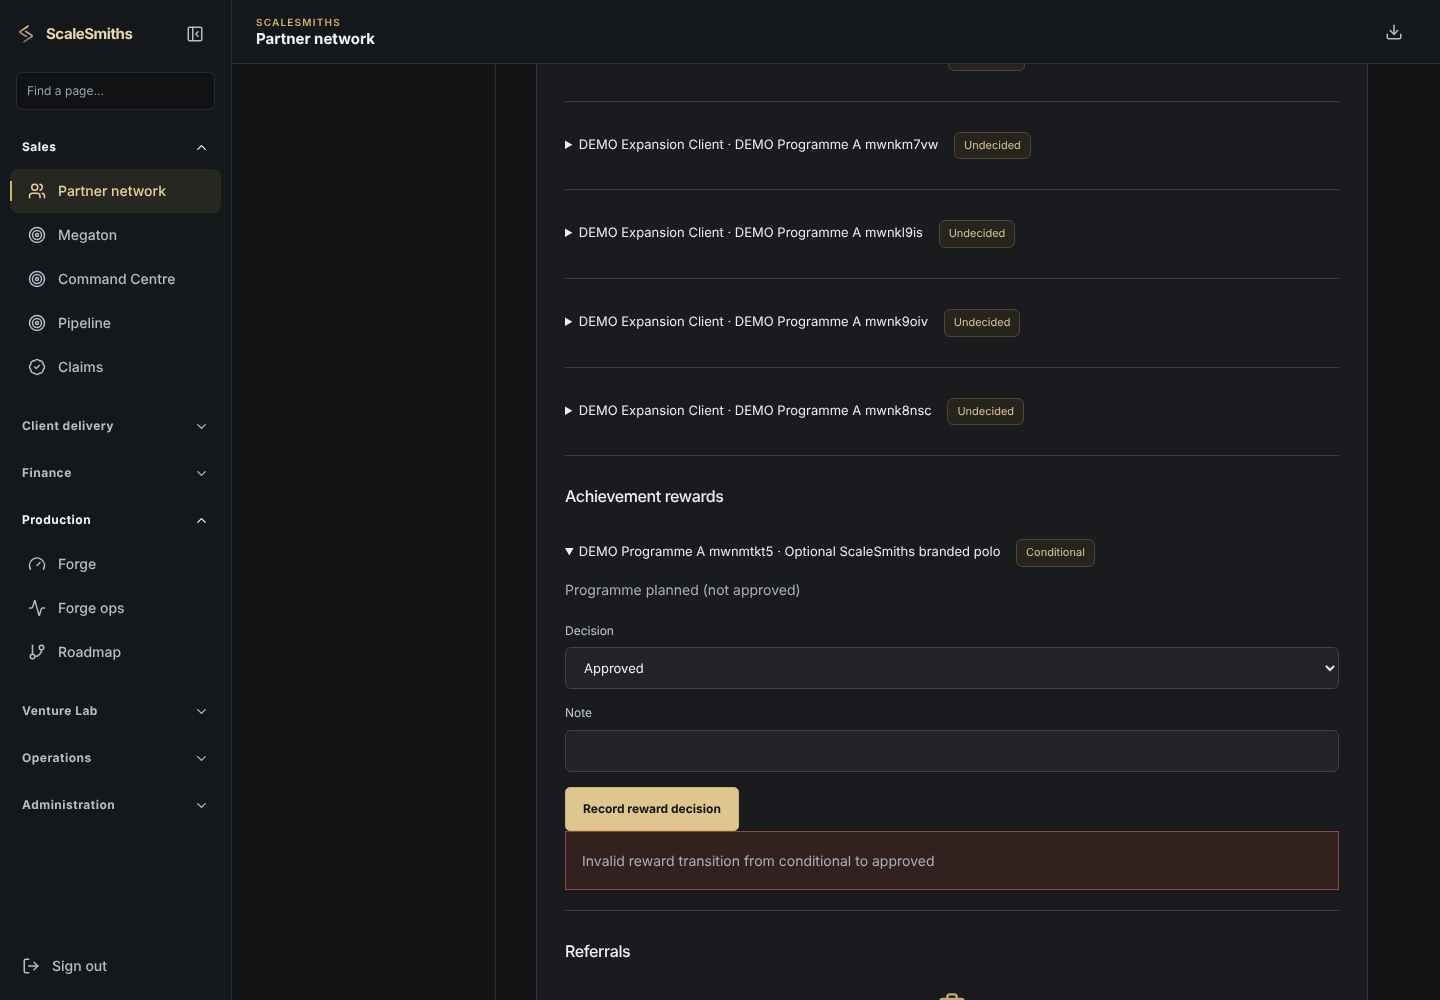
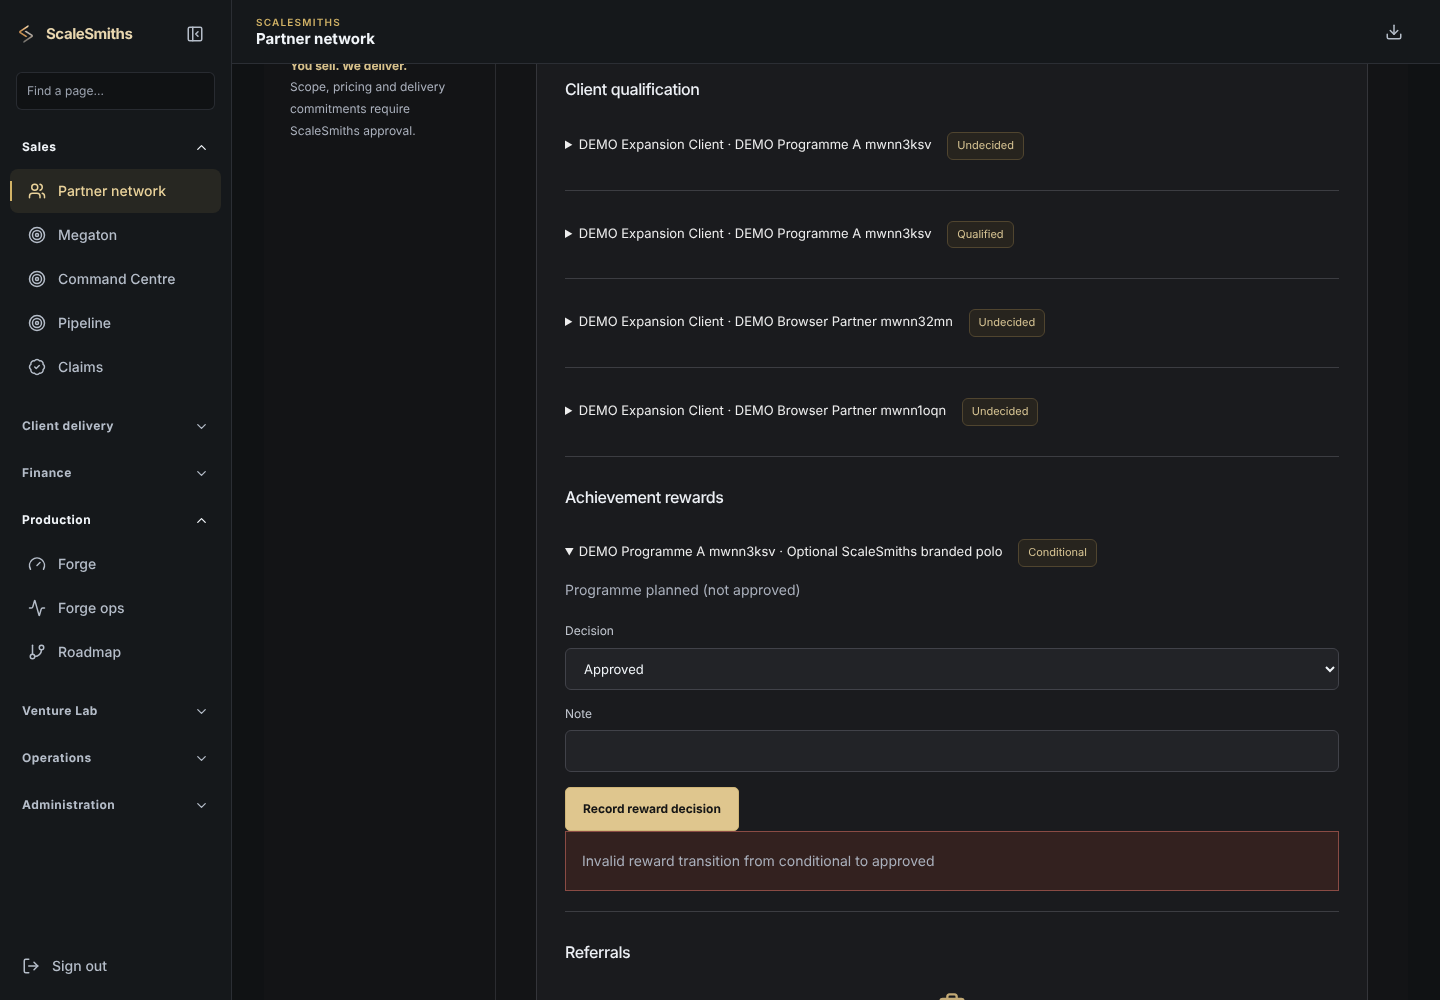
docs(partners): checkpoint 4 models, matrix updates and draft PR description
Claude-Session: https://claude.ai/code/session_01JiUvJZZ1RqT7GrTNG2bYja

diff --git a/docs/expansion/intelligence/PR-DESCRIPTION.md b/docs/expansion/intelligence/PR-DESCRIPTION.md
@@ -1,0 +1,27 @@
+# Draft PR: Operation Intelligence B0 (Scale Your Future programme foundation)
+
+**Status: DRAFT. Not opened, not merged, not deployed.** Base: master `4c399b8` (Expansion Hardening, PR #154). Branch `claude/modest-newton-jo2d95`. Intake and partner activation stay closed; every commercial reward, withdrawal and market is disabled or approval-gated by default.
+
+## What this contains
+- **B0.1 Public site:** Become a Partner header CTA, footer and Partner Login (existing admin origin), rebuilt `/partners` (twelve-month terms, calculator, honest availability labels, disclosures).
+- **B0.2 Commercial integration:** `standard-v2`, `growth-only-v1`, `bespoke-v1` plans with immutable commitment snapshots, interim milestone, pooled rounding, discount allowances (none by default), additional-customer claims, withdrawal requests over the existing ledger, fail-closed market and exclusivity gates (also for legacy `standard-v1` acceptance), canonical sector classification.
+- **B0.3 Programme:** achievements and referrals (conditional, never payable), onboarding toolkit tracking, founder meeting requests.
+- **Integrity:** one documented lock hierarchy (a real refund-vs-collection deadlock was reproduced and fixed), database-enforced withdrawal transitions, immutable exclusivity history with supersession.
+
+## Migrations (forward-only, 0073 to 0081)
+0073 plans · 0074 allowances and claims · 0075 withdrawals · 0076 market/exclusivity · 0077 gate hardening · 0078 state integrity · 0079 achievements/referrals · 0080 sector taxonomy · 0081 toolkit/meetings. Upgrade from the Expansion Hardening state was verified with historical rows preserved. No migration deletes or rewrites existing data.
+
+## Financial changes
+Standard commission stays £705. New plans round once on the cumulative build total. Withdrawals reserve existing ledger entries and create ordinary payouts; nothing moves money. Achievement, referral and withdrawal activation are off until an approved programme/policy exists.
+
+## Security
+Partner isolation and founder-only actions verified in service tests, real PostgreSQL and a production-build browser run. The full concurrency suite passes **as the restricted admin runtime role**; the web role was denied on every private table; admin DELETE/DDL/TRUNCATE/trigger-disable were denied. Two independent model reviews (not human audits) found no critical issues; all high/medium findings were remediated.
+
+## Verification (see CHECKPOINT-4-REPORT.md for exact commands and counts)
+Admin unit/service tests, web tests, 135 PostgreSQL integration tests, production builds, committed public browser tests, authenticated programme journey (run twice), original Expansion journey, 21 repository gates, privilege harness via a native-PostgreSQL shim.
+
+## Known gaps and approvals
+Not built: researched prospect allocation, Founding Partner recognition, personal profiles, applicant/activation/allocation/scope-approval market gating, Phase C. Unverified here: GitHub CI, the unchanged IPv6 `safe-outbound` test (environment lacks `::1`), the privilege harness with real Docker, the full web Playwright suite. Needs founder/legal/accounting decisions listed in FOUNDER-DECISIONS.md before any activation.
+
+## Deployment prerequisites and rollback
+Deploy only after protected-area review, legal/accounting/privacy approval and production recovery verification. Migrations are additive; rollback is by restoring the pre-migration backup (the new tables are unreferenced by older code). Enable plans, withdrawal policy, markets and programme versions only through the founder UI after approval. **Master branch protection is still not enforced** (governance concern, unchanged).

diff --git a/docs/expansion/intelligence/ACHIEVEMENT-AND-REFERRAL-MODEL.md b/docs/expansion/intelligence/ACHIEVEMENT-AND-REFERRAL-MODEL.md
@@ -1,0 +1,22 @@
+# Achievements and referrals (checkpoint 4B)
+
+**Nothing here creates a payable liability.** There is deliberately no ledger or payout integration for rewards. A reward is a record with a status; moving a bonus to approved is refused by the database unless an approved programme version explicitly enables financial rewards.
+
+## Qualification
+- A *qualifying client* is a **founder decision** (`expansion_client_qualifications`) on a real accepted contract of that partner with verified net collections. Progress is `count(status='qualified')`, never an editable number.
+- Refused: cancelled contract, no verified collections, outstanding refund review, below an approved programme minimum, or a canonical client already counted (for any partner). A DB trigger requires the contract and client to belong to the partner. Decisions are immutable; a wrong one is revoked (reason required) and decided again.
+- Unresolved policy (founder decisions): minimum payment, duration, refund/cancellation effect, additional-customer and common-ownership treatment. Defaults are conservative: manual review, one count per canonical client.
+
+## Programmes and rewards
+- `expansion_achievement_programmes` versions the schedule (seeded from the proposed table: polo 1, webpage 5, then £250 / £750 / £2,000 / £5,000 / £15,000 / £30,000 at 10 / 25 / 50 / 100 / 250 / 500). Approved versions and their milestones are immutable. Financial and referral rewards are separate flags, default off, and require approval.
+- Reaching a threshold creates a **conditional** reward (unique per partner and milestone). Statuses: conditional → under_review → approved → fulfilment_pending → fulfilled (or rejected). A reward created before any programme exists may adopt an approved programme once, only if it defines the same milestone, kind and amount.
+- Revoking a qualification withdraws unapproved rewards whose threshold is no longer met; approved ones stay and are flagged for review.
+- Cumulative planned bonuses (£8,000 / £23,000 / £53,000 at 100 / 250 / 500) are shown as an illustration only.
+
+## Referrals
+- One unique code per partner (`SS-` + 8 base32 characters). A founder records the attribution on an **open** application before activation; it is immutable and cannot be reassigned. Self-referral (same application or email) and attribution after activation are refused by trigger. The applicant is vetted exactly as any other; nothing is automatic.
+- When the referred partner reaches five qualifying clients, a conditional £250 reward appears (unique per referral); it is withdrawn if the count falls. Approval needs a programme with referral rewards enabled.
+- The referrer sees a coarse stage and a count only: no names, customers, finances or notes. No downline, no recurring commission.
+
+## Evidence
+10 service tests, 5 real-PostgreSQL race tests (same-client double decision, concurrent qualifications, revoke versus reward decision, referral attribution race, commission ledger unchanged), and a browser journey.

diff --git a/docs/expansion/intelligence/COMMERCIAL-ACCEPTANCE-MATRIX.md b/docs/expansion/intelligence/COMMERCIAL-ACCEPTANCE-MATRIX.md
@@ -13,10 +13,10 @@
 | G bespoke £25,000 | PASS, persisted | £0 at acceptance; £3,000, then £1,500, then £3,000 per collection, reaching £7,500 only after all three |
 | H additional customer sale | PASS, persisted (3A) and browser | claim → approval → new accepted terms → allocated invoice → £3,000 commission; old invoice unclaimable; no client duplicated; historical contract ledger unchanged |
 | I withdrawal | PASS: 31 service tests, 11 real-PostgreSQL races, browser | request/replay/reject/cancel/approve/prepare/settle; over-withdrawal and double allocation impossible; refund dispute gate; no transfer |
-| J achievement | NOT STARTED | |
-| K referral | NOT STARTED | |
-| L exclusivity | PASS at acceptance (plan path): service, real-PostgreSQL race, browser | restricted/review/exception/cleared/ended; customer identity not disclosed |
-| M international eligibility | PARTIAL: acceptance gate PASS (unknown, unapproved, suspended, wrong-plan, approved; race; browser). Applicant/activation gating NOT implemented | |
+| J achievement | PASS (service, real PostgreSQL, browser) | derived progress, conditional rewards, no automatic liability, duplicates and bypasses refused in the database, ledger unchanged |
+| K referral | PASS (service, real PostgreSQL, browser) | code, attribution, vetting unchanged, five-client conditional £250, no payable liability, no recurring commission, privacy-limited view |
+| L exclusivity | PASS at acceptance (plan and legacy paths) and structured classification: service, race, browser. NOT enforced at registration or allocation (allocation not built) | classified/unclassified, review, exception, supersession, confidentiality |
+| M international eligibility | PARTIAL: acceptance gate PASS for plan and legacy paths (unknown, unconfirmed, unapproved, suspended, wrong-plan, approved; grandfathering; race; browser). Applicant, activation, allocation and scope-approval gating NOT implemented | |
 | N discount concurrency | PASS, real PostgreSQL | three race tests |
 | O refund/payout regression | PASS | existing hardening suite plus new pooled £200 partial refund = −£60 held for review |
 | P four £500 instalments | PASS, persisted and real-PostgreSQL concurrent | £150 × 4 + £105 = £705; concurrent interim collections serialise; over-allocation admits one |

diff --git a/docs/expansion/intelligence/PARTNER-OPERATIONS.md b/docs/expansion/intelligence/PARTNER-OPERATIONS.md
@@ -1,0 +1,15 @@
+# Partner operations: toolkit, meetings, governance gates (checkpoint 4)
+
+## Onboarding toolkit (manual fulfilment)
+Fourteen catalogue items. Defaults are honest: features that exist in this software (referral identifier, joint-meeting requests) show *available*; everything external (dedicated email, CircleCard, brochures, Academy, prospects, personal webpage...) shows *planned*. A founder records status per partner; **evidence is mandatory before an item can be available or completed** (service and database). Only a published partner resource can be associated. Nothing is provisioned, bought or sent.
+
+## Meeting requests (manual)
+Seven meeting types; one to five preferred times plus an IANA time zone; optional own opportunity. Lifecycle: requested, under review, information required, alternative proposed, confirmed, declined, cancelled, completed, with database-enforced transitions and a mandatory confirmed time. Partners submit, answer, accept an alternative and cancel; founders decide. Times are never invented, no calendar event is created and no invitation is sent. The tables have no link to commission, so founder attendance cannot reduce it.
+
+## Market eligibility and exclusivity (acceptance gates)
+- **New** acceptance by any route, including legacy `standard-v1` terms, needs a founder-confirmed customer country in an approved market (`*` for legacy: any approved market; plan-based: the plan must be listed). **Existing accepted contracts are grandfathered**: they are never re-evaluated and collections, refunds and payouts on them continue under any later policy change.
+- Exclusivity compares by founder-defined canonical sector where both sides are classified; a classified restriction can be cleared against an unclassified prospect only by a founder classification. Wording-only comparison remains the conservative fallback and always errs towards review. Exclusivity terms are immutable; corrections supersede.
+- Decision point: `assertAcceptanceGates` inside the acceptance transaction, under the shared advisory lock 7102 (administration takes it exclusively).
+
+## Not built
+Prospect research and allocation, partner-activation and applicant market gating, Founding Partner recognition, personal profiles.

diff --git a/docs/expansion/intelligence/PROGRAMME-ALIGNMENT.md b/docs/expansion/intelligence/PROGRAMME-ALIGNMENT.md
@@ -12,8 +12,8 @@ Status values: DONE, PARTIAL, PLANNED (public label only), NOT STARTED.
 | Bespoke 30% | Yes | engine (per-quote terms) | Existing scope review | Existing | PARTIAL | Eligibility definition | Case G |
 | Discretionary discounts | Table, "not yet approved" | Allowance policies (none by default) | Remaining count | Policy, reserve, release | PARTIAL: integrated, no allowances approved | Allowance amounts (default disabled) | Cases E, F; no concurrency (Case N) |
 | Existing-customer additional sales | Explained | Claims table | Request and status | Review | PARTIAL: workflow persisted, no commission run | Attribution rules | none |
-| Achievements | Planned, conditional | Schedule constants only | No | No | PLANNED | Qualification rules | partner-programme.test.ts |
-| Referral £250 | Planned, conditional | No | No | No | PLANNED | Written terms | none |
+| Achievements | Planned, conditional | Versioned programme, derived qualification | Achievement Centre | Programme, qualification, rewards | IMPLEMENTED and tested; rewards NOT payable | Qualification rules, written terms | service, race, browser |
+| Referral £250 | Planned, conditional | Codes, attribution, conditional reward | Referrals view | Attribution, reward review | IMPLEMENTED and tested; NOT payable | Written terms | service, race, browser |
 | Withdrawal requests | Planned (label unchanged: no approved payout policy) | Versioned policy, disabled until approved | Commission Centre request/cancel | Policy, review, payout prep | IMPLEMENTED and tested, NOT operational | Frequency, minimum, invoicing, VAT | 31 service, 11 race, browser |
 | Dedicated email, CircleCard, prospects, Academy, personal page, Founding Partner | Planned labels | No | No | No | PLANNED / NOT STARTED | Provisioning, screening | none |
 | Sector exclusivity | Explained | Acceptance gate | Generic notice only | Register, decide | PARTIAL: enforced at acceptance only | Legal | service, race, browser |

diff --git a/docs/expansion/intelligence/FOUNDER-DECISIONS.md b/docs/expansion/intelligence/FOUNDER-DECISIONS.md
@@ -29,4 +29,9 @@ Columns: blocks recruitment (R), activation (A), financial operations (F). Owner
 | Approving each customer market and its permitted plans | Nothing can be accepted in any market until approved | Approve UK first, others one by one | Founders, legal, tax | N | Y | Y |
 | Exclusivity vocabulary and recording standard | Matching is string-based and conservative | Controlled sector/area lists | Founders | N | Y | N |
 | Applicant and partner-residence market rules | Not modelled yet | Add gating before activation | Founders, legal | Y (claims) | Y | N |
+| Achievement qualification rules (minimum payment, duration, refund/cancellation effect, common ownership, additional-customer and bespoke treatment) | Defaults are manual review, one count per canonical client | Decide before approving a programme version | Founders, accounting, legal | N | N | Y |
+| Approving a programme version and enabling financial or referral rewards | Disabled by default; the database refuses reward approval otherwise | Approve in writing after accounting review | Founders, accounting | N | N | Y |
+| Whether to record referrals at application time | Today a founder records attribution before activation | Add a referral code to the public form | Founders, privacy | Y | N | N |
+| Sector taxonomy and exclusivity recording standard | Classified sectors decide by id; unclassified fall back to review | Define sectors and aliases before relying on matching | Founders | N | Y | N |
+| Toolkit fulfilment standard and external services (email, CircleCard) | Tracked manually; no provisioning exists | Approve providers and costs separately | Founders | N | N | N |
 

diff --git a/docs/expansion/intelligence/IMPLEMENTATION-PLAN.md b/docs/expansion/intelligence/IMPLEMENTATION-PLAN.md
@@ -5,7 +5,8 @@
 | B0.1 | Header/footer/Partner Login, Scale Your Future page, calculator, disclosures | **Delivered** (see FINAL-REPORT.md) |
 | B0.2 | Versioned twelve-month terms, flexible schedules, retainer-only, bespoke, discounts, existing-customer sales | **Delivered in checkpoint 2 (2A, 2B)**: persisted, integrated into contract acceptance, migrations 0073/0074. Founder UI written but not browser-verified. Market and exclusivity acceptance gates depend on 2E |
 | B0.3 | Withdrawals, market and exclusivity gates | **Delivered in checkpoint 3 (3B, 3E gates)** |
-| B0.3 remainder | Achievements, referrals, toolkit, prospect allocation, meetings, Founding Partner, personal profiles | **Not started** (3C, 3D, rest of 3E) |
+| B0.3 (checkpoint 4) | Achievements, referrals, toolkit, meetings, legacy-path and structured gates, integrity closure | **Delivered** (4A, 4B, 4C partial, 4D) |
+| B0.3 remainder | Researched prospect allocation, Founding Partner recognition, personal profiles, applicant/activation/allocation market gating | **Not started** |
 | B1 | Knowledge, resources, Academy | Not started |
 | B2 | Website Intelligence | Not started (security design required first) |
 | B3 | Sales Studio | Not started |
